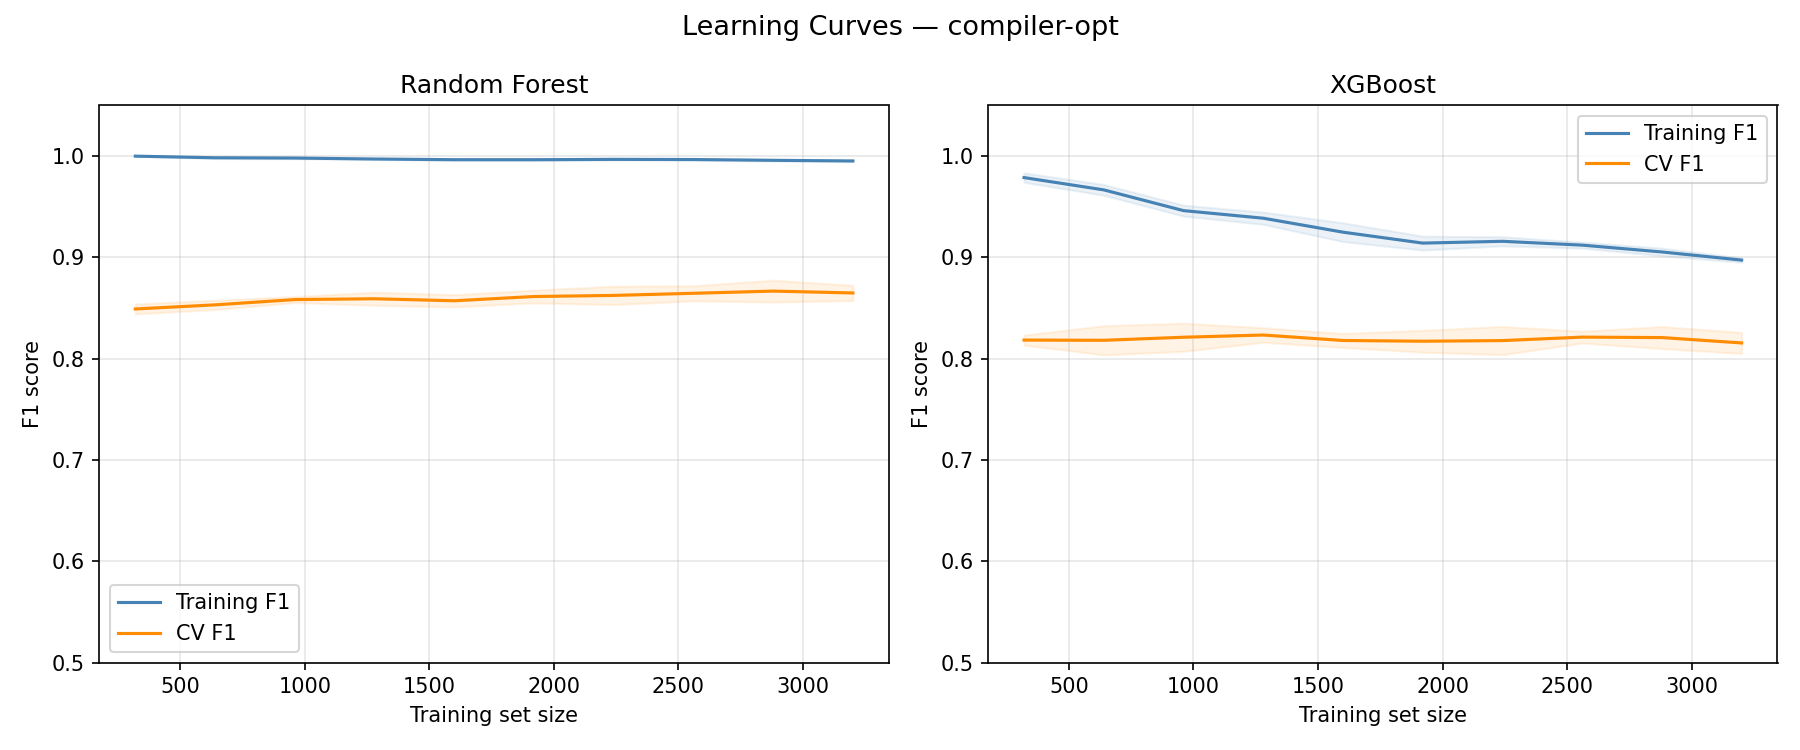
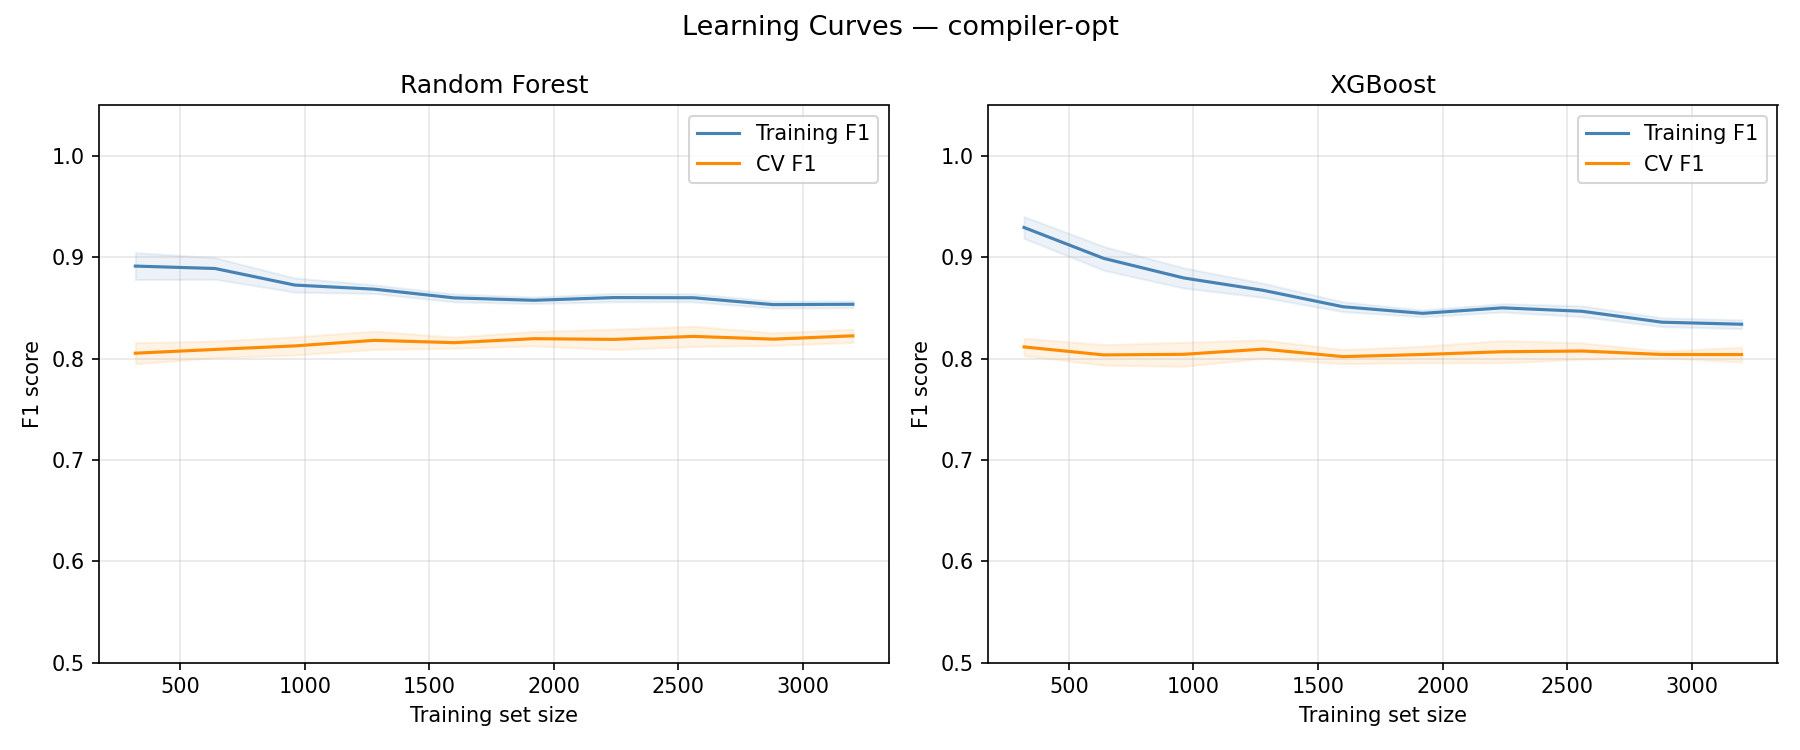
Fix overfitting with depth constraints on both models
Random Forest:
- max_depth: None -> 10 (was growing unlimited depth trees)
- min_samples_leaf: 1 -> 5 (prevents splits on tiny leaf nodes)
- Gap reduced from 0.130 to 0.028 (OK)

XGBoost:
- max_depth: 6 -> 4 (shallower trees for few features)
- learning_rate: 0.1 -> 0.05 (slower learning reduces memorisation)
- subsample: 0.8 (train each tree on 80% of samples)
- colsample_bytree: 0.8 (use 80% of features per tree)
- Gap reduced from 0.076 to 0.027 (OK)

Both models: ROC-AUC 0.830, minority catch RF=23.9% XGBoost=28.3%
Next: richer body-level features to push past current ceiling

diff --git a/model/train_rf_xgb.py b/model/train_rf_xgb.py
@@ -97,19 +97,22 @@ def load_dataset(path: str) -> tuple[np.ndarray, np.ndarray, list[str]]:
 
 def build_random_forest() -> RandomForestClassifier:
     return RandomForestClassifier(
-        n_estimators = 200,
-        max_depth    = None,
-        class_weight = "balanced",
-        random_state = RANDOM_STATE,
-        n_jobs       = -1,
+        n_estimators     = 200,
+        max_depth        = 10,   # was None — unlimited depth memorises training data
+        min_samples_leaf = 5,    # don't split a node if it has fewer than 5 samples
+        class_weight     = "balanced",
+        random_state     = RANDOM_STATE,
+        n_jobs           = -1,
     )
 
 
 def build_xgboost(scale_pos_weight: float) -> xgb.XGBClassifier:
     return xgb.XGBClassifier(
         n_estimators     = 200,
-        max_depth        = 6,
-        learning_rate    = 0.1,
+        max_depth        = 4,    # was 6 — shallower trees generalise better with few features
+        learning_rate    = 0.05, # was 0.1 — slower learning reduces overfitting
+        subsample        = 0.8,  # train each tree on 80% of samples — reduces memorisation
+        colsample_bytree = 0.8,  # use 80% of features per tree — reduces memorisation
         scale_pos_weight = scale_pos_weight,
         eval_metric      = "logloss",
         random_state     = RANDOM_STATE,
